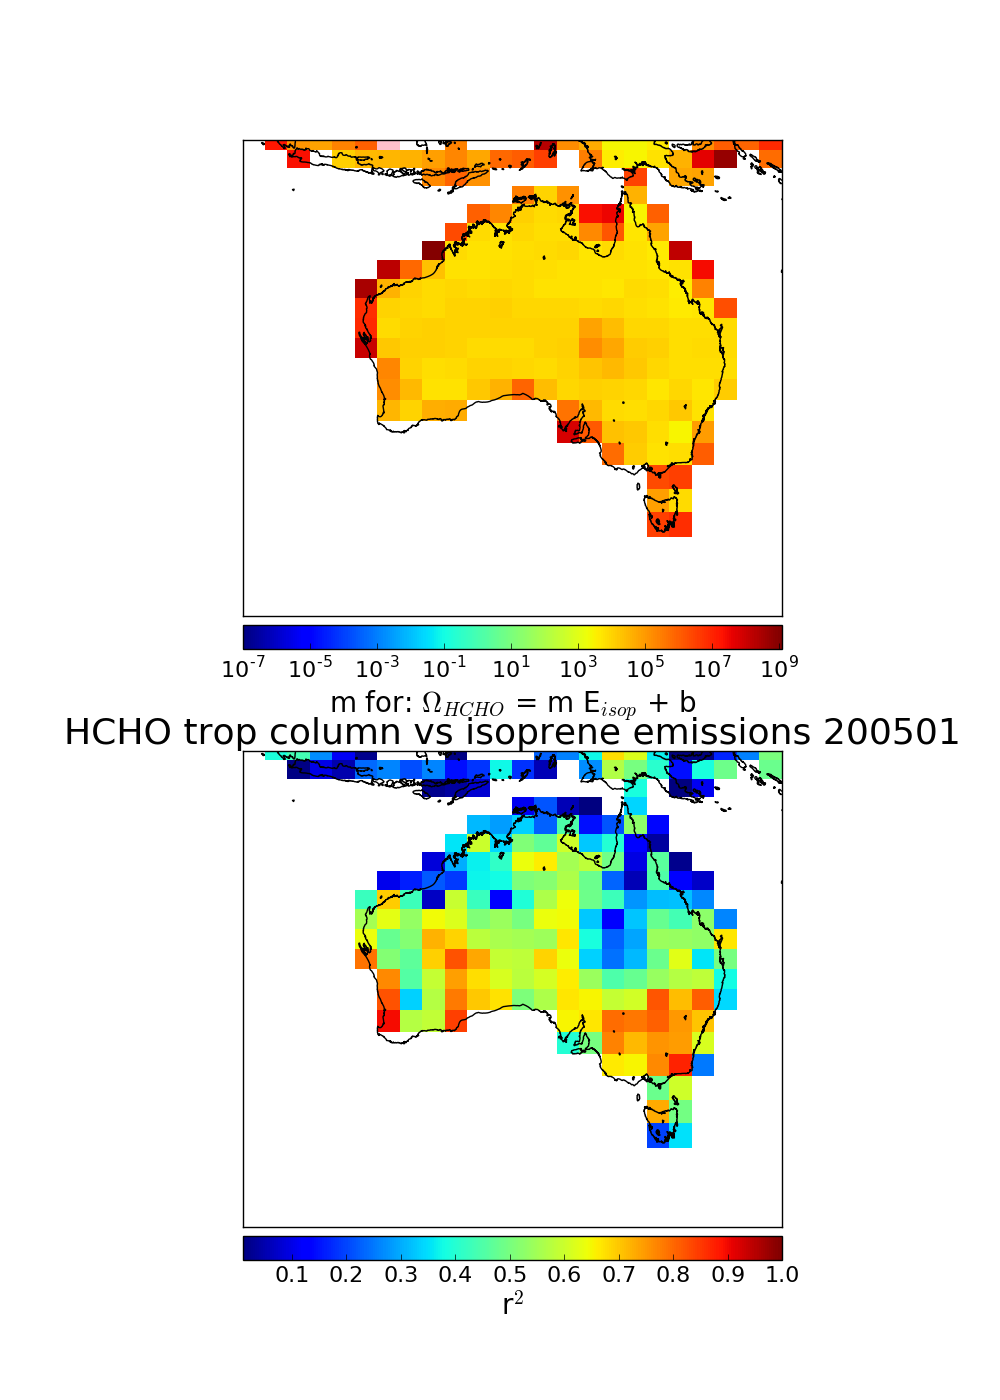
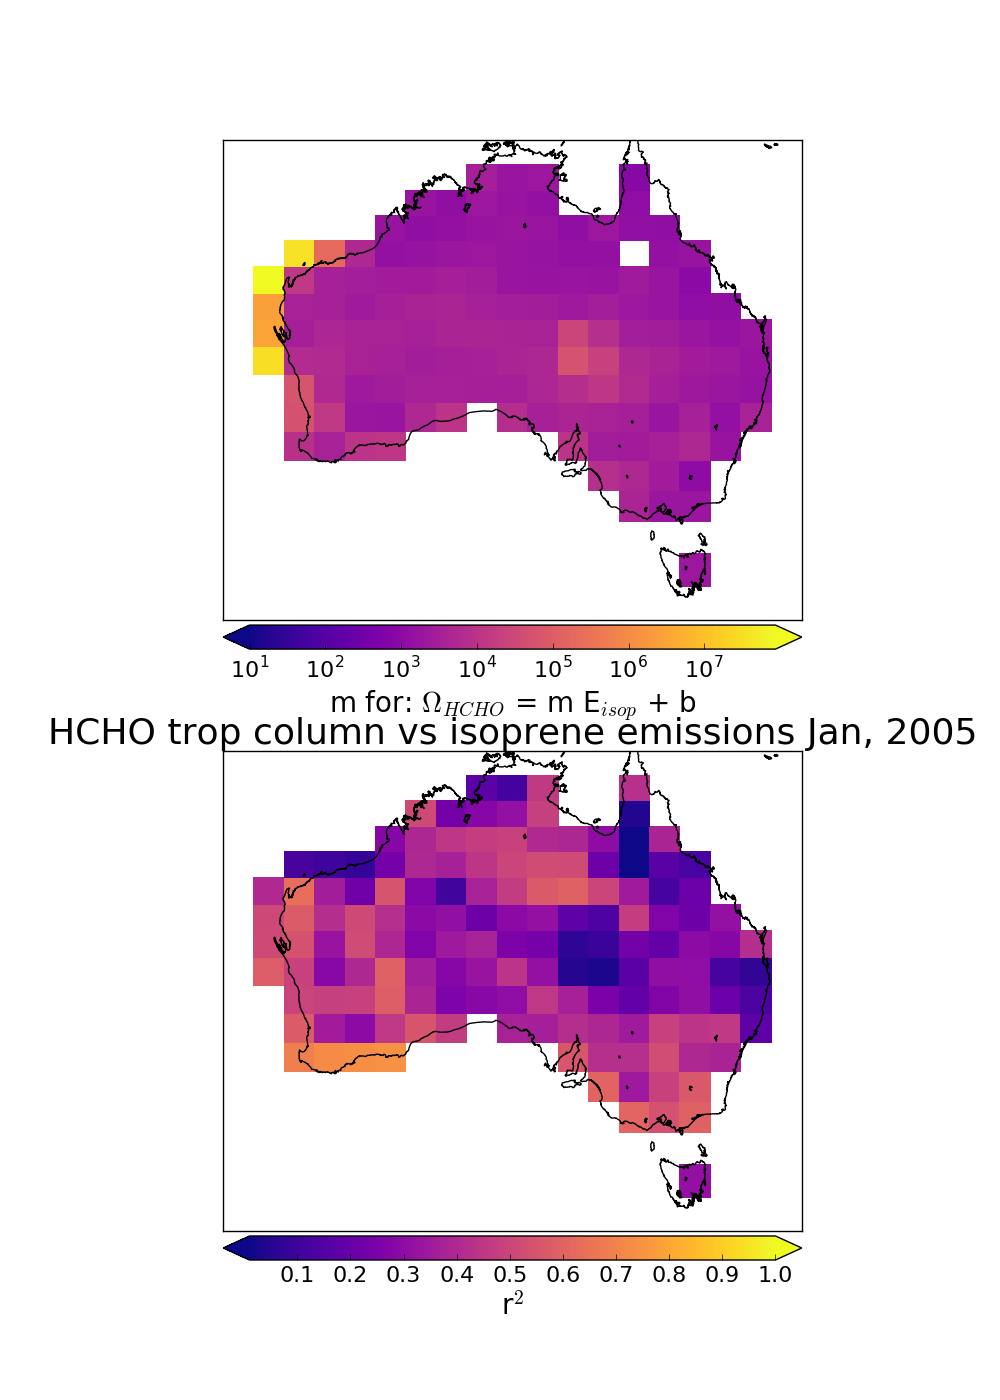
Updated Slope plot and fixed slope issue

Changed region(s): [[0.062, 0.0921, 0.961, 0.9214]]

diff --git a/GC_tests.py b/GC_tests.py
@@ -34,7 +34,7 @@ from utilities import utilities as util
 from classes import GC_class
 from classes.omhchorp import omhchorp
 from classes.campaign import campaign
-
+import reprocess
 
 
 ##################
@@ -969,7 +969,7 @@ def compare_tc_ucx(date=datetime(2005,1,1),extra=False,fnames=None,suffix=None):
 
 
 
-def isop_hcho_RMA(gc):
+def Examine_Model_Slope(month=datetime(2005,1,1)):
     '''
         compares isop emission [atom_C/cm2/s] against hcho vert_column [molec_hcho/cm2]
         as done in Palmer et al. 2003
@@ -977,86 +977,101 @@ def isop_hcho_RMA(gc):
     '''
 
     # Retrieve data
-    isop = gc.E_isop # atom_C/cm2/s
-    hcho = gc.get_trop_columns(keys=['hcho'])['hcho'] # molec/cm2
-    dates= gc.dates # datetime list
+    dates= util.list_days(month,month=True)
+    GC=GC_class.GC_biogenic(month)
+    region=pp.__AUSREGION__
+    ymstr=month.strftime('%b, %Y')
+    hcho_min=1e14
+    hcho_max=3e16
+    Eisop_min=1e11
+    Eisop_max=1.2e13
+    cmapname='gnuplot'
+    # plot names
+    pname=month.strftime('Figs/GC/E_isop_vs_hcho_%Y%m.png')
 
-    # plot name
-    pname1='Figs/GC/E_isop_vs_hcho_series_%s.png'%gc.dstr
-    pname2='Figs/GC/E_isop_vs_hcho_map_%s.png'%gc.dstr
 
-    # subset region
-    region=gc._get_region(aus=True, region=None)
-    lats,lons=gc.lats,gc.lons
-    lati,loni = pp.lat_lon_range(lats,lons,region)
-    isop_sub=isop[lati,:,:]
-    isop_sub=isop_sub[:,loni,:]
-    hcho_sub=hcho[lati,:,:]
-    hcho_sub=hcho_sub[:,loni,:]
+    # Get slope and stuff we want to plot
+    model   = GC.model_slope(return_X_and_Y=True)
+    lats    = model['lats']
+    lons    = model['lons']
+    hcho    = model['hcho']
+    isop    = model['isop']
+    # Y=slope*X+b with regression coeff r
+    reg     = model['r']
+    off     = model['b']
+    slope   = model['slope']
+    ocean   = util.oceanmask(lats,lons)
+    hcho[:,ocean] = np.NaN
+    isop[:,ocean] = np.NaN
 
-    f,axes=plt.subplots(2,1,figsize=(10,14))
+    f,axes=plt.subplots(2,2,figsize=(20,14))
+
+    # Now plot the slope and r^2 on the map of Aus:
+    plt.sca(axes[0,0]) # first plot slope
+    vmin=1e-7
+    slope[slope < vmin] = np.NaN # Nan the zeros and negatives for nonlinear plot
+    pp.createmap(slope, lats, lons, vmin=1e3, vmax=1e6,
+                 aus=True, linear=False, cmapname=cmapname,
+                 suptitle="HCHO trop column vs isoprene emissions %s"%ymstr,
+                 clabel='slope', title=r'$\Omega_{HCHO}$ = slope x E$_{isop}$ + b')
+    plt.sca(axes[1,0]) # then plot r2 and save figure
+    bmap,cs,cb = pp.createmap(reg**2,lats,lons,vmin=0,vmax=1.0,
+                              aus=True,linear=True, cmapname=cmapname,
+                              clabel=r'r$^2$')
+
     # plot time series (spatially averaged)
-    ts_isop=np.mean(isop_sub,axis=(0,1))
-    ts_hcho=np.mean(hcho_sub,axis=(0,1))
-    plt.sca(axes[0])
-    pp.plot_time_series(dates,ts_isop,ylabel=r'E$_{isoprene}$ [atom$_C$ cm$^{-2}$ s$^{-1}$]',
-        title='time series for %s'%gc.dstr, dfmt="%m%d", color='r')
-    twinx=axes[0].twinx()
+    ts_isop=np.nanmean(isop,axis=(1,2))
+    ts_hcho=np.nanmean(hcho,axis=(1,2))
+    plt.sca(axes[0,1])
+    pp.plot_time_series(dates,ts_isop,ylabel=r'E$_{isop}$ [atom C cm$^{-2}$ s$^{-1}$]',
+        title='time series for %s'%ymstr, dfmt="%d", color='r',legend=False, label=r'E$_{isop}$')
+    h1, l1 = axes[0,1].get_legend_handles_labels()
+    twinx=axes[0,1].twinx()
     plt.sca(twinx)
-    pp.plot_time_series(dates,ts_hcho,ylabel=r'$\Omega_{HCHO}$ [ molec$_{HCHO}$ cm$^{-2}$ ]',
-        xlabel='time', dfmt="%m%d", color='m')
+    pp.plot_time_series(dates,ts_hcho,ylabel=r'$\Omega_{HCHO}$ [ molec cm$^{-2}$ ]',
+        xlabel='time', dfmt="%d", color='m', legend=False, label=r'$\Omega_{HCHO}$')
+    h2, l2 = twinx.get_legend_handles_labels()
+    plt.legend(h1+h2, l1+l2, loc='best')
 
-    plt.sca(axes[1])
+
+    plt.sca(axes[0,1])
     plt.autoscale(True)
     # plot a sample of ii_max scatter plots and their regressions
     ii=0; ii_max=9
     colours=[cm.rainbow(i) for i in np.linspace(0, 0.9, ii_max)]
-    randlatis= np.random.choice(lati, size=30)
-    randlonis= np.random.choice(loni, size=30)
+    randlats= np.random.choice(range(len(lats)), size=30)
+    randlons= np.random.choice(range(len(lons)), size=30)
     # loop over random lats and lons
-    for xi,yi in zip(randlonis,randlatis):
+    for xi,yi in zip(randlons,randlats):
         if ii==ii_max: break
-        lat=gc.lats[yi]; lon=gc.lons[xi]
-        X=isop[yi,xi,:]; Y=hcho[yi,xi,:]
-        if np.isclose(np.mean(X),0.0): continue
-        lims=np.array([np.min(X),np.max(X)])
-        plt.scatter(X,Y,color=colours[ii])
-        m,b,r,CI1,CI2=RMA(X, Y) # get regression
-        plt.plot(lims, m*np.array(lims)+b,color=colours[ii],
-            label='Y[%5.1fS,%5.1fE] = %.1eX + %.2e, r=%.2f'%(-1*lat,lon,m,b,r))
-        ii=ii+1
-    plt.xlabel(r'E$_{isop}$ [atom$_C$ cm$^{-2}$ s$^{-1}$]')
-    plt.ylabel(r'$\Omega_{HCHO}$ [molec$_{HCHO}$ cm$^{-2}$]')
-    plt.title('Sample of regressions over Australia')
-    plt.legend(loc=0,fontsize=9) # show legend
-    plt.savefig(pname1)
-    print("Saved "+pname1)
-    plt.close()
+        lat=lats[yi]; lon=lons[xi]
+        X=isop[:,yi,xi]; Y=hcho[:,yi,xi]
+        if np.isclose(np.mean(X),0.0) or np.isnan(np.mean(X)): continue
+        xlims=np.array([Eisop_min,Eisop_max])
+        # add dot to map
+        plt.sca(axes[1,0])
+        bmap.plot(lon,lat,latlon=True,markersize=10,marker='o',)
 
-    # Now plot the slope and r^2 on the map of Aus:
-    fig,axes=plt.subplots(2,1,figsize=(10,14))
-    dims=hcho.shape[0:2] # lat,lon dims
-    r2=np.zeros(dims)
-    slope=np.zeros(dims)
-    offset=np.zeros(dims)
-    for yi in lati:
-        for xi in loni: # loop over lats and lons
-            lat=gc.lats[yi]; lon=gc.lons[xi]
-            X=isop[yi,xi,:]; Y=hcho[yi,xi,:]
-            if np.isclose(np.mean(X),0): # if we're on an all ocean square
-                continue
-            m,b,r,CI1,CI2=RMA(X, Y) # get regression slope and r values
-            r2[yi,xi]=r**2
-            slope[yi,xi]=m
-            offset=b
-    plt.sca(axes[0]) # first plot slope
-    vmin=1e-7
-    slope[slope < vmin] = np.NaN # Nan the zeros and negatives for nonlinear plot
-    pp.createmap(slope, lats, lons, vmin=vmin, aus=True, linear=False,
-                clabel=r'm for: $\Omega_{HCHO}$ = m E$_{isop}$ + b')
-    plt.sca(axes[1]) # then plot r2 and save figure
-    pp.createmap(r2,lats,lons,vmin=0.01,vmax=1.0,aus=True,linear=True,clabel=r'r$^2$',
-        title="HCHO trop column vs isoprene emissions %s"%gc.dstr, pname=pname2)
+        # Plot scatter and regression
+        plt.sca(axes[1,1])
+        plt.scatter(X,Y,color=colours[ii])
+        m,b,r = slope[yi,xi],off[yi,xi],reg[yi,xi]
+        plt.plot(xlims, m*xlims+b,color=colours[ii],
+            label='Y[%5.1fS,%5.1fE] = %.1eX + %.2e, r=%.2f'%(-1*lat,lon,m,b,r))
+
+        ii=ii+1
+    plt.xlim(xlims)
+    plt.ylim([hcho_min,hcho_max])
+    plt.xlabel(r'E$_{isop}$ [atom C cm$^{-2}$ s$^{-1}$]')
+    plt.ylabel(r'$\Omega_{HCHO}$ [molec cm$^{-2}$]')
+    plt.title('Sample of regressions')
+    plt.legend(loc=0,fontsize=9) # show legend
+
+    plt.savefig(pname)
+    plt.close()
+    print("SAVED: ",pname)
+
+
 
 def E_isop_series(gc, aus=False, region=None):
     ''' Plot E_isop time series '''
@@ -1127,7 +1142,8 @@ if __name__=='__main__':
     label='AUS'
 
     # Checking units:
-    check_units()
+
+    Examine_Model_Slope() # unfinished 30/5/18
     check_rsc_interp()   # last run 29/5/18
 
     #HCHO_vs_temp(d0=d0,d1=d1,

diff --git a/utilities/plotting.py b/utilities/plotting.py
@@ -41,7 +41,7 @@ from utilities.utilities import regrid
 __VERBOSE__=False
 
 # S W N E
-__AUSREGION__=[-45, 108.75, -11, 156.25] # picked from lons_e and lats_e in GMAO.py
+__AUSREGION__=[-45, 108.75, -10, 156.25]
 __GLOBALREGION__=[-69, -178.75, 69, 178.75]
 
 __cities__ = {'Syd':[-33.87,151.21], # Sydney
@@ -455,6 +455,10 @@ def hatchmap(m, datamap, lats, lons, thresh, region=None,hatch='x',color='k'):
     mx,my = m(mlons,mlats)
     m.pcolor(mx, my, aaod_masked, hatch=hatch, color=color, alpha=0.)
 
+def get_colors(cmapname,howmany):
+    cmap=plt.cm.cmap_d[cmapname]
+    return cmap(np.linspace(0, 1, howmany))
+
 def plot_img(path):
     ''' '''
     img=mpimg.imread(path)
@@ -719,7 +723,7 @@ def subzones(data, dates, lats, lons, mask=None, subzones=__subzones_AUS__,
         Region mapped is the first of the subzones
         If a mask is applied then also show map and time series after applying mask
     '''
-    region=subzones[0]
+    #region=subzones[0]
     j=int(mask is not None)
 
     data_mean = np.nanmean(data,axis=0)
@@ -952,13 +956,35 @@ def plot_daily_cycle(dates, data, houroffset=0, color='k', overplot=False):
     #plt.savefig(pname)
     #print("SAVED FIGURE:",pname)
 
+def add_dots_to_map(bmap, lats, lons, region, cmapname='rainbow', add_rectangle=True, landonly=True):
+    '''
+        Add dots (optionally coloured) to the bmap
+        lats, lons will be subset to subregion
+    '''
 
-if __name__=='__main__':
-    print('plotting called!')
-    InitMatplotlib()
-    from datetime import datetime
-    #plot_swath(datetime(2005,1,10),title="eg_swaths",
-    #           pname="Figs/Checks/eg_swaths.png",
-    #           vmin=2.0e15, vmax=2.0e16, cmapname='YlOrBr',
-    #           region=__GLOBALREGION__)#[-65.,-30.0,35.,170.],)
-    print('done')
+    # Read omhcho (reprocessed)
+
+
+    lati,loni=util.lat_lon_range(lats,lons,region)
+    #lats,lons=lats[lati],lons[loni]
+    oceanmask=util.oceanmask(lats,lons, inlands=False)
+
+    if add_rectangle:
+        # Add rectangle around where we are correlating
+        add_rectangle(bmap,region,linewidth=2)
+
+    colors=get_colors(cmapname,len(lati)*len(loni))
+
+    # iterator ii, one for each land grid square we will regress
+    ii=0
+    for y in lati:
+        for x in loni:
+            # Don't correlate oceanic squares
+            if oceanmask[y,x]:
+                ii=ii+1
+                continue
+
+            # Add dot to map
+            mx,my = bmap(lons[x], lats[y])
+            bmap.plot(mx, my, 'o', markersize=5, color=colors[ii])
+    return colors

diff --git a/classes/GC_class.py b/classes/GC_class.py
@@ -919,7 +919,7 @@ class GC_biogenic:
         # also get satellite output
         self.sat_out=GC_sat(month, dayN=util.last_day(month) ,run='biogenic')
 
-    def model_slope(self, region=pp.__AUSREGION__, overpass_hour=13):
+    def model_slope(self, region=pp.__AUSREGION__, overpass_hour=13, return_X_and_Y=False):
         '''
             Use RMA regression between E_isop and tropcol_HCHO to determine S:
                 HCHO = S * E_isop + b
@@ -958,6 +958,7 @@ class GC_biogenic:
         O_hcho=sat_out.O_hcho # should be very similar to hcho molec/cm2
         print("satellite output: trop column vs total column")
         print("    %.2e    %.2e "%(np.nanmean(hcho),np.nanmean(O_hcho)))
+        hcho = O_hcho # We will apply the slope to total columns from OMHCHORP.
 
         # what lats and lons do we want?
         lats,lons = sat_out.lats, sat_out.lons
@@ -1012,6 +1013,9 @@ class GC_biogenic:
                              'lati':lati, 'loni':loni,
                              # regression, background, and slope
                              'r':reg, 'b':bg, 'slope':slope}
+        if return_X_and_Y:
+            self.modelled_slope['hcho']=hcho
+            self.modelled_slope['isop']=isop
         return self.modelled_slope
 
 ################
